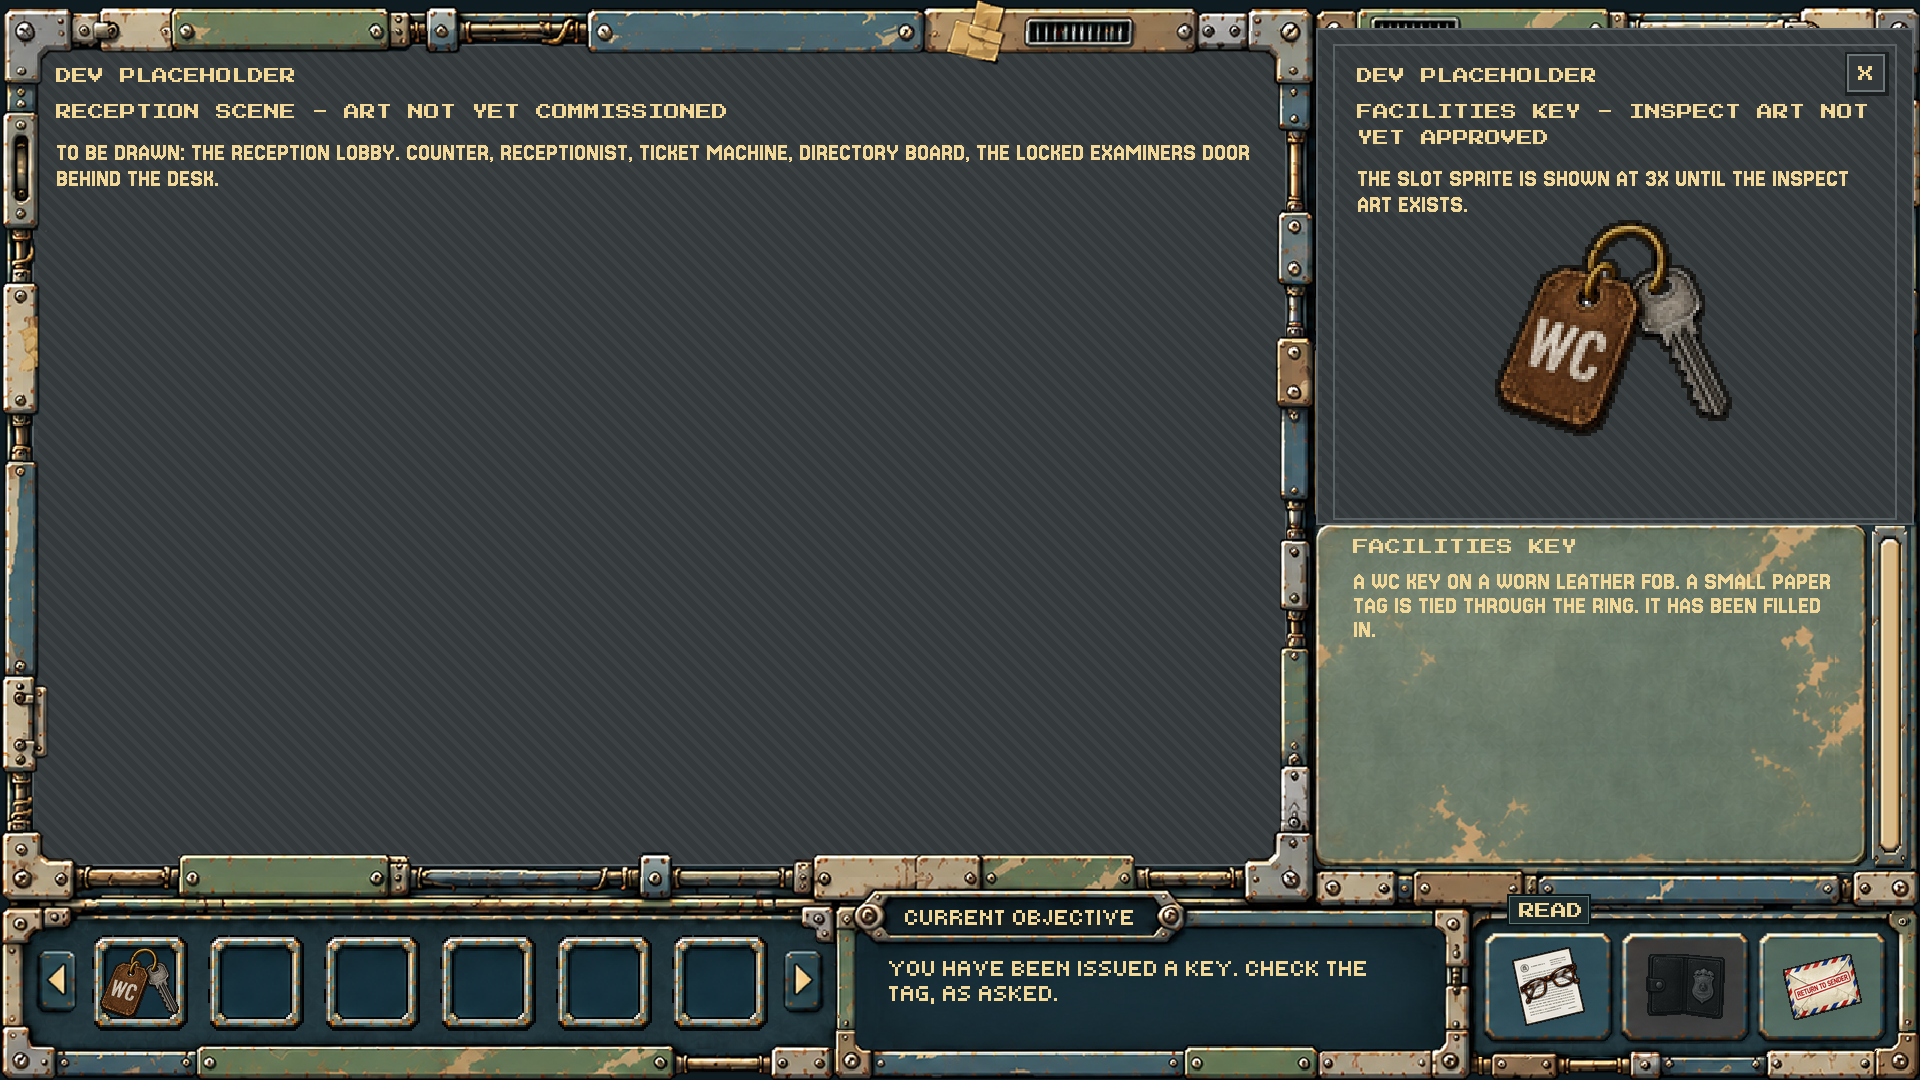
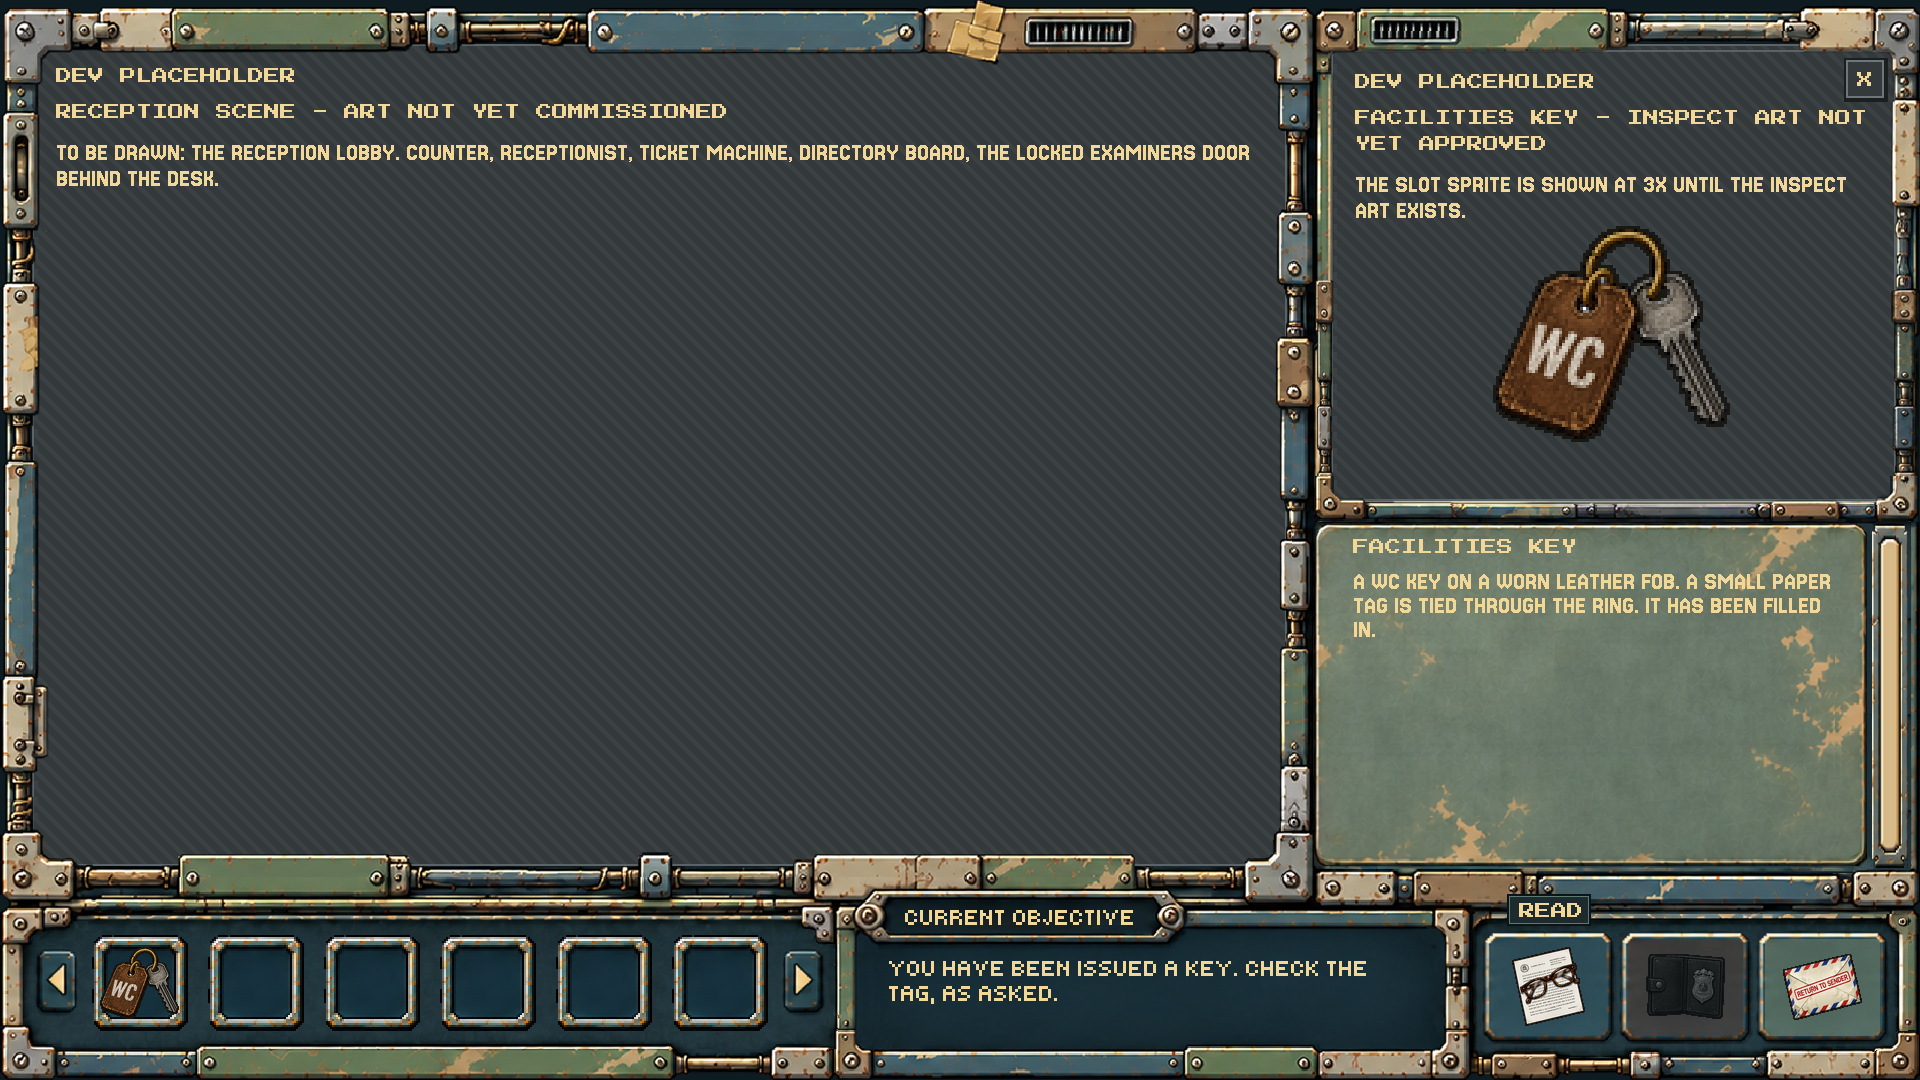
M2: fit inspect art under the item overlay's window
The placeholder inspect art kept the old rectangle and sat above the
overlay, hiding its top, right and bottom rails. It now fills the
overlay's hand-drawn window (x1331-1895, y50-500) underneath the overlay.
QA asserts the rectangle and the layering. Route 38/38, game QA 264/264
in Chromium and Firefox.

Changed region(s): [[0.6875, 0.0, 1.0, 0.4889]]

diff --git a/game/js/stage.js b/game/js/stage.js
@@ -884,11 +884,16 @@
   // item fills it; the choices box holds the item's text; the buttons change; an X closes it.
   // The owner-provided item column overlay is production art. Item inspect art and the X
   // remain placeholders until their own approved assets exist.
-  var INSPECT_RECT = [1333, 44, 564, 476];
+  // The overlay's see-through window is hand-drawn (about x1332-1894, y51-499). The art fills a
+  // rectangle just inside the frame and sits UNDER the overlay, so the frame's ragged inner edge
+  // always wins and no rail is overpainted.
+  var INSPECT_RECT = [1331, 50, 565, 451];
   var CLOSE = 44;
 
   function buildInspector() {
     els.inspector = el('div', 'layer', stage, { id: 'inspector' });
+    els.inspectArt = el('canvas', 'sprite-abs', els.inspector, { id: 'inspectArt', 'aria-hidden': 'true' });
+    place(els.inspectArt, INSPECT_RECT[0], INSPECT_RECT[1], INSPECT_RECT[2], INSPECT_RECT[3]);
     // Full-canvas RGBA overlay: transparent everywhere except the replacement right-column frame.
     // Keep it at 1:1 stage coordinates; never crop/rescale it into the old placeholder rectangle.
     els.inspectColumn = el('img', 'sprite-abs', els.inspector, {
@@ -901,8 +906,6 @@
       'aria-hidden': 'true'
     });
     place(els.inspectColumn, 0, 0, 1920, 1080);
-    els.inspectArt = el('canvas', 'sprite-abs', els.inspector, { id: 'inspectArt', 'aria-hidden': 'true' });
-    place(els.inspectArt, INSPECT_RECT[0], INSPECT_RECT[1], INSPECT_RECT[2], INSPECT_RECT[3]);
     els.inspectClose = el('button', 'hit', els.inspector, { id: 'inspectClose', type: 'button', 'aria-label': 'Close the item' });
     els.inspectCloseArt = el('canvas', 'sprite', els.inspectClose, { 'aria-hidden': 'true' });
     place(els.inspectClose, INSPECT_RECT[0] + INSPECT_RECT[2] - CLOSE - 8, INSPECT_RECT[1] + 8, CLOSE, CLOSE);

diff --git a/game/qa/run_qa.js b/game/qa/run_qa.js
@@ -428,7 +428,7 @@ async function suite(name, base, requests) {
     && b.querySelector('img.glyph').style.display === 'none' && b.querySelector('canvas.glyph').style.display !== 'none'));
   c('the choice cards give way to the item text', (await page.$$eval('#choiceViewport .choice', (bs) => bs.filter((b) => b.style.display !== 'none').length)) === 0
     && (await page.$eval('#inspectText', (e) => e.style.display !== 'none')));
-  c('the owner item-column overlay replaces the portrait/dialogue shell in inspector mode', await page.evaluate(() => {
+  c('the owner item-column overlay replaces the portrait/dialogue shell in inspector mode, drawn over the inspect art', await page.evaluate(() => {
     const col = document.getElementById('inspectColumn');
     const art = document.getElementById('inspectArt');
     return col && col.tagName === 'IMG'
@@ -436,7 +436,9 @@ async function suite(name, base, requests) {
       && parseInt(col.style.left) === 0 && parseInt(col.style.top) === 0
       && parseInt(col.style.width) === 1920 && parseInt(col.style.height) === 1080
       && art.style.display !== 'none'
-      && parseInt(art.style.top) === 44 && parseInt(art.style.height) === 476
+      && parseInt(art.style.left) === 1331 && parseInt(art.style.top) === 50
+      && parseInt(art.style.width) === 565 && parseInt(art.style.height) === 451
+      && (art.compareDocumentPosition(col) & Node.DOCUMENT_POSITION_FOLLOWING) !== 0
       && document.getElementById('inspectClose').offsetWidth === 44;
   }));
   c('the item is marked inspected', (await game(page, () => window.CYOA_GAME.state.items.wc_key)).includes('inspected'));

diff --git a/docs/52_M2_ITEM_OVERLAY_INTEGRATION.md b/docs/52_M2_ITEM_OVERLAY_INTEGRATION.md
@@ -15,3 +15,14 @@ Implementation rules:
 - QA now asserts that inspector mode uses the exact committed overlay path and full-canvas placement.
 
 This is an integration of already committed owner art, not a redesign of the inspector geometry.
+
+## Follow-up: inspect art fitted under the overlay
+
+At `759d5f4` the placeholder inspect art used the old rectangle (x1333–1897, y44–520) and was layered
+**above** the overlay, so it painted over the overlay's top rail (9 px), right rail (3 px) and the whole
+bottom rail (y498–520). The overlay's see-through window is hand-drawn, roughly x1332–1894, y51–499.
+
+Fix: the inspect art now fills `[1331, 50, 565, 451]` (x1331–1895, y50–500) and sits **under** the
+overlay in the DOM, so the frame's ragged inner edge always draws on top. The X sits 8 px inside the
+art's top-right corner, as before. QA asserts the new rectangle and the art-under-overlay order.
+Verified on the Mac: route 38/38, game QA 264/264 (Chromium + Firefox).
